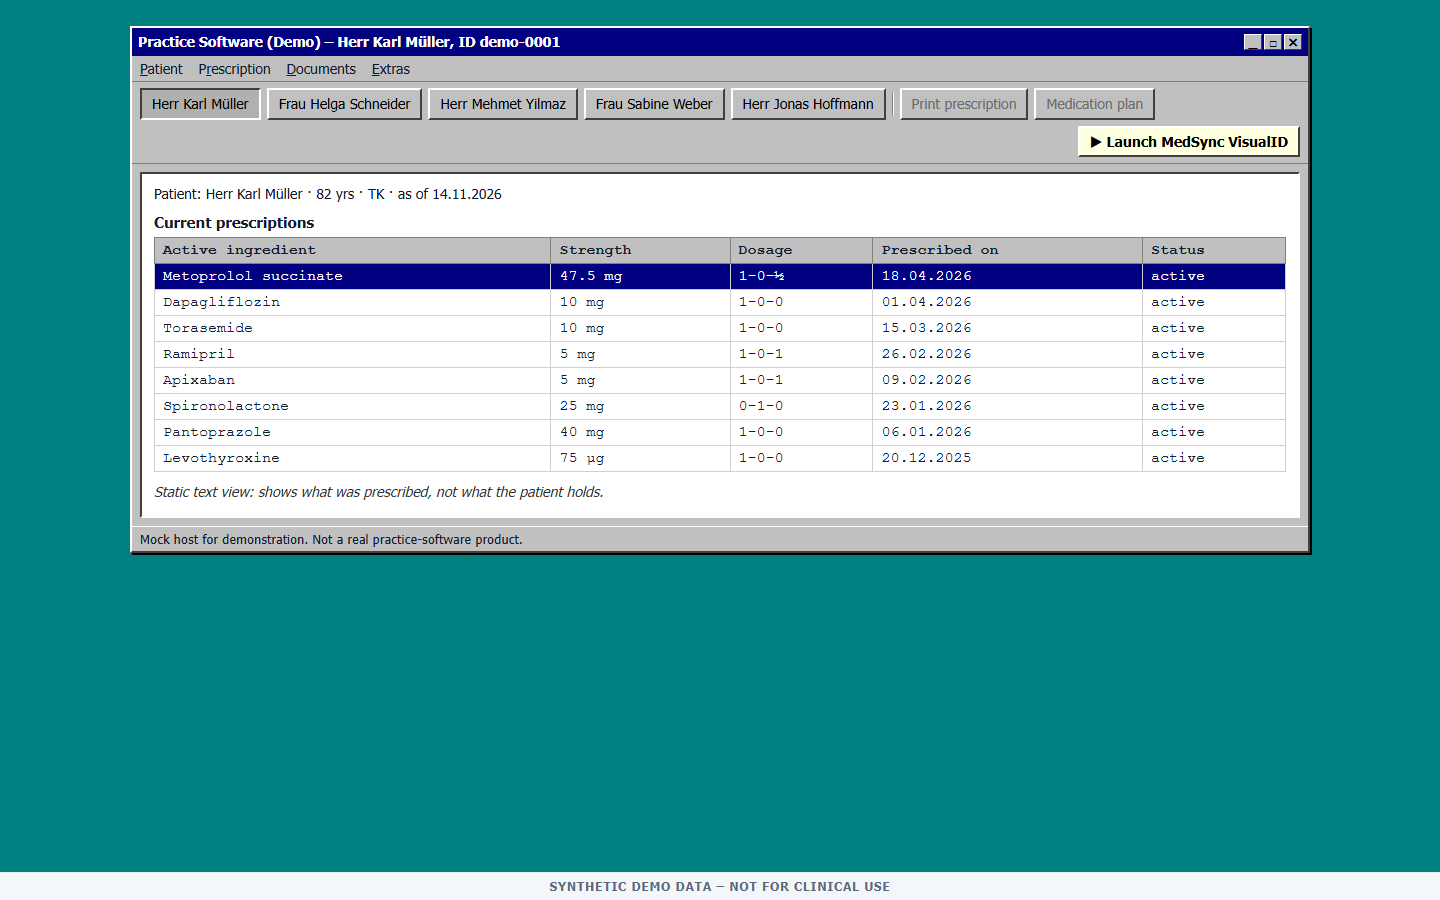
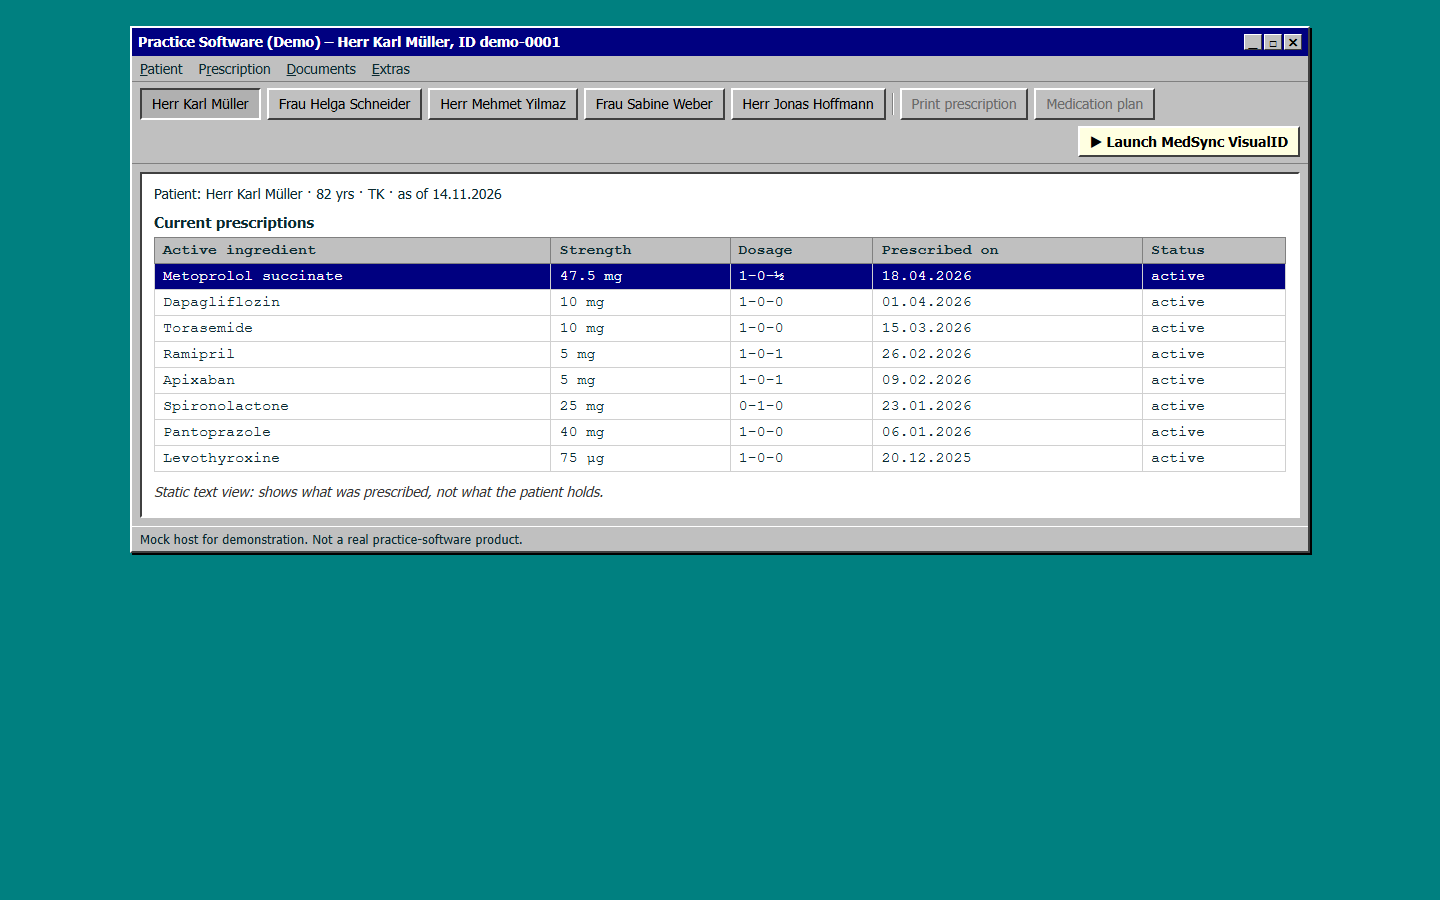
How We Work: add-on and API framing; remove bottom disclaimer bar; fix tab bounce after demo

Changed region(s): [[0.0, 0.9644, 1.0, 1.0]]

diff --git a/app/l8_ui/templates/how_we_work.html b/app/l8_ui/templates/how_we_work.html
@@ -69,15 +69,15 @@
 
   <section class="story-integration" aria-labelledby="integration">
     <h2 id="integration">An add-on, not a replacement</h2>
-    <p>MedSync is designed to open from inside the practice software a clinic already uses. This prototype shows the idea with a mock host screen; no integration exists.</p>
+    <p>MedSync is designed to sit on top of the practice software a clinic already uses. There are two ways to offer it:</p>
+    <ul class="offer">
+      <li><b>As an add-on.</b> It opens from inside the existing patient record, with the patient already selected. Nothing is replaced and staff keep their familiar screens.</li>
+      <li><b>As an API or service.</b> Practice-software vendors, pharmacies or telehealth providers can call MedSync to turn a medication list into pill pictures inside their own product.</li>
+    </ul>
     <p class="story-links">
       <a class="btn" href="/host?patient_id=1">Open the mock practice software</a>
       <a class="btn primary" href="/consult?patient_id=1&launched=1">Open MedSync as launched from it</a>
     </p>
-    <div class="simulated" aria-label="What is simulated here">
-      <h3>What is simulated here</h3>
-      <ul><li>Contract data</li><li>Dispensing feed</li><li>Shortage feed</li><li>Appearance data</li><li>Conversation input (typed, no microphone)</li></ul>
-    </div>
   </section>
 </div>
 {% endblock %}

diff --git a/app/l8_ui/static/styles.css b/app/l8_ui/static/styles.css
@@ -538,3 +538,10 @@ body.in-call .col-left .timer span { color: var(--mint); }
 .blind-flow li::before { background: var(--rail); color: var(--mint); }
 @media (max-width: 760px) { .story .story-hero { padding: 28px 20px; border-radius: 18px; } .consult { padding: 14px 12px 0; } }
 .story .story-hero h1 { max-width: 11.5em; }
+
+/* no disclaimer bar at the bottom; the add-on section lists two ways to offer MedSync */
+:root { --foot-h: 0px; }
+.offer { list-style: none; margin: 0; padding: 0; display: grid; grid-template-columns: 1fr 1fr; gap: 14px; }
+.offer li { background: #fff; border: 1px solid #e3ebea; border-radius: 16px; padding: 18px 20px; box-shadow: var(--shadow); color: var(--soft); }
+.offer li b { display: block; color: var(--ink); font-family: var(--display); font-size: 1.1rem; margin-bottom: 4px; }
+@media (max-width: 760px) { .offer { grid-template-columns: 1fr; } }

diff --git a/app/l8_ui/static/app.js b/app/l8_ui/static/app.js
@@ -173,13 +173,13 @@
     var next = s.i + delta;
     if (next < 0) next = 0;
     if (next >= demo.steps.length) {
-      s.playing = false; setDemo(s);
+      s.playing = false; s.on = false; setDemo(s);   /* finished: other tabs must open normally */
       $("#demo-count").textContent = "Demo finished";
       $("#demo-pause").textContent = "Restart";
       $("#demo-pause").setAttribute("data-restart", "1");
       return;
     }
-    s.i = next; setDemo(s);
+    s.i = next; s.on = true; setDemo(s);
     runStep();
   }
   function stopDemo() {

diff --git a/app/l8_ui/templates/base.html b/app/l8_ui/templates/base.html
@@ -41,7 +41,6 @@
     <div class="demo-progress"><i id="demo-progress"></i></div>
   </div>
 
-  <footer class="synthetic">{{ footer }}</footer>
   <script src="/static/htmx.min.js"></script>
   <script src="/static/app.js"></script>
 </body>

diff --git a/app/l8_ui/templates/host.html b/app/l8_ui/templates/host.html
@@ -38,6 +38,5 @@
     </div>
     <div class="host-status">Mock host for demonstration. Not a real practice-software product.</div>
   </main>
-  <footer class="synthetic">{{ footer }}</footer>
 </body>
 </html>

diff --git a/tests/test_polish.py b/tests/test_polish.py
@@ -106,7 +106,6 @@ def test_navigation_order_on_every_page(client):
         labels = re.findall(r'<a class="tab [^>]*>([^<]+)</a>', page)
         assert labels == ["Consult", "Explorer", "How We Work", "Simulator"], url
         assert page.count('aria-current="page"') == 1, url
-        assert "SYNTHETIC DEMO DATA – NOT FOR CLINICAL USE" in page
 
 
 def test_mock_host_table_matches_the_prescriptions(client):
@@ -117,8 +116,7 @@ def test_mock_host_table_matches_the_prescriptions(client):
         assert med["substance_name"] in host and med["instruction_text"] in host
     for text in ("Practice Software (Demo)", "Launch MedSync VisualID", 'id="launch-medsync"',
                  "Static text view: shows what was prescribed, not what the patient holds.",
-                 "Mock host for demonstration. Not a real practice-software product.",
-                 "SYNTHETIC DEMO DATA – NOT FOR CLINICAL USE"):
+                 "Mock host for demonstration. Not a real practice-software product."):
         assert text in host
     assert "<svg" not in host                                      # text only, no pictures
     assert 'href="/consult?patient_id=1&launched=1"' in host
@@ -134,7 +132,7 @@ def test_how_we_work_is_short_and_uses_real_seed_values(client):
     page = client.get("/how-we-work", headers=HTML).text
     for text in ("Prescribed by name. Dispensed by contract. Described by color.", "Metoprolol succinate", "TK",
                  "BARMER", "The GP prescribes", "The pharmacy dispenses", "The patient describes",
-                 "What is simulated here", "no integration exists", "Extract", "Transform", "Load",
+                 "As an add-on.", "As an API or service.", "Extract", "Transform", "Load",
                  "Zero friction communication.", "Contract data source: simulated in this prototype"):
         assert text in page, text
     pzns = re.findall(r"PZN (\d{8})", page)

diff --git a/tests/test_l7_api.py b/tests/test_l7_api.py
@@ -68,12 +68,12 @@ def test_smoke_every_route(client):
     assert len(client.get("/demo/scenario").json()["steps"]) == 6
 
 
-def test_every_tab_and_partial_renders_with_the_footer(client):
+def test_every_tab_and_partial_renders(client):
     for url in ("/consult", "/consult?patient_id=2", "/consult?patient_id=3", "/explorer", "/explorer?insurer_id=3&substance_id=9",
                 "/explorer?substance_id=12", "/explorer?insurer_id=6", "/simulator", "/how-we-work"):
         page = client.get(url, headers=HTML)
         assert page.status_code == 200, url
-        assert "SYNTHETIC DEMO DATA – NOT FOR CLINICAL USE" in page.text
+        assert 'class="synthetic"' not in page.text                      # the bottom disclaimer bar was removed
         assert page.text.count('class="tab ') == 4                       # four tabs, same order everywhere
         assert "Traceback" not in page.text
     hx = {"hx-request": "true"}

diff --git a/docs/ASSUMPTIONS.md b/docs/ASSUMPTIONS.md
@@ -156,3 +156,14 @@ Where the specification was silent, the simplest option that keeps the live demo
   faint dot grid, pill pictures shaded like objects on a tray, and a dark opening panel on How We Work.
 - Headings use Bahnschrift, the DIN-style typeface that ships with Windows, with system fonts as fallback.
   No font file is bundled, so phones and Macs show their own system font for headings.
+
+## Presentation round
+
+- At the owner's request the bottom bar "SYNTHETIC DEMO DATA – NOT FOR CLINICAL USE" was removed from all
+  screens, and How We Work no longer lists what is simulated or says that no integration exists. The team
+  covers these limitations verbally. The patient key keeps its synthetic-data line, and the mock
+  practice-software screen is still labelled as a mock. `docs/LIMITATIONS.md` is unchanged.
+- The add-on section now describes two ways MedSync could be offered: as an add-on to existing practice
+  software, or as an API or service.
+- After the scripted demo finishes, other tabs now open normally. Before, the finished demo sent the browser
+  back to Consult.

diff --git a/README.md b/README.md
@@ -7,7 +7,7 @@ The patient says "three white tablets, one blue and two yellow ones". The clinic
 ingredients. MedSync bridges the two: it works out which product the patient most likely holds, shows it
 as a large pill picture, narrows the list while the patient talks, and prints a large-print picture key.
 
-> SYNTHETIC DEMO DATA – NOT FOR CLINICAL USE. Every contract, manufacturer, brand name and PZN is fictional.
+> Synthetic demo data, not for clinical use. Every contract, manufacturer, brand name and PZN is fictional.
 > MedSync is not a dosing tool. The software proposes, the human decides.
 
 Built for the Healthcare Hackathon Bayern (Erlangen), Challenge 1: medication adjustment with polypharmacy patients.
